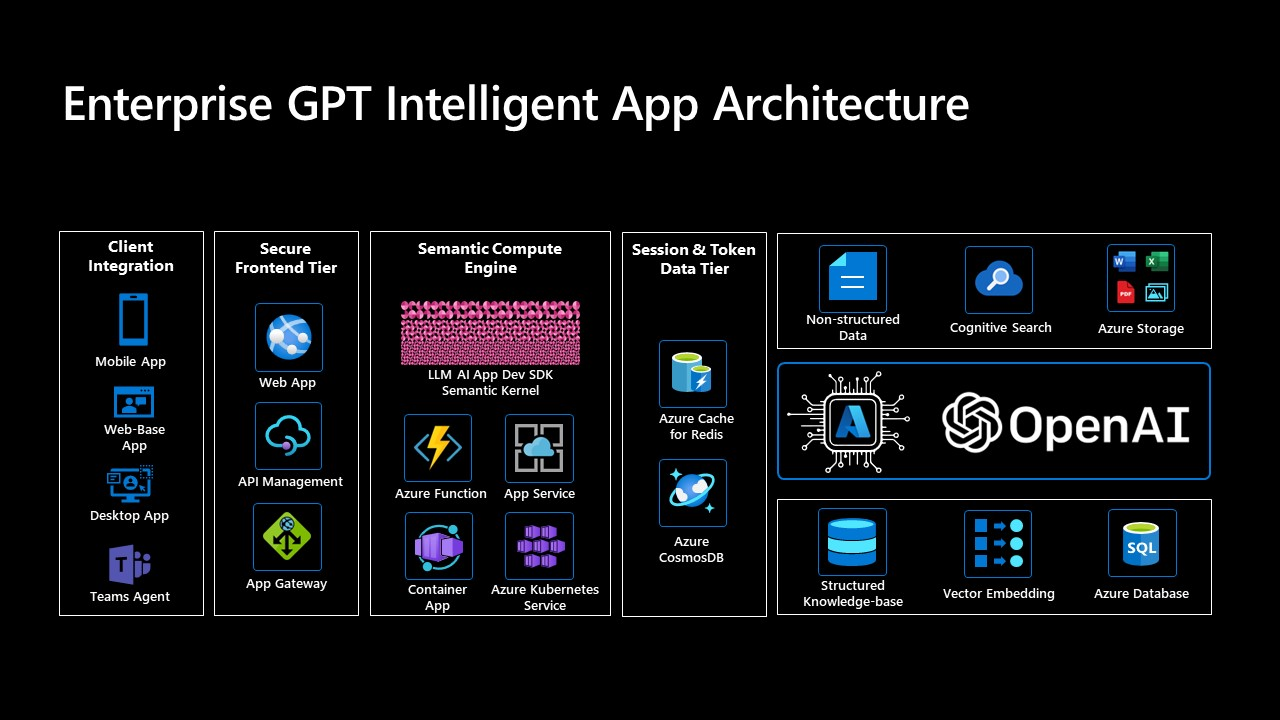
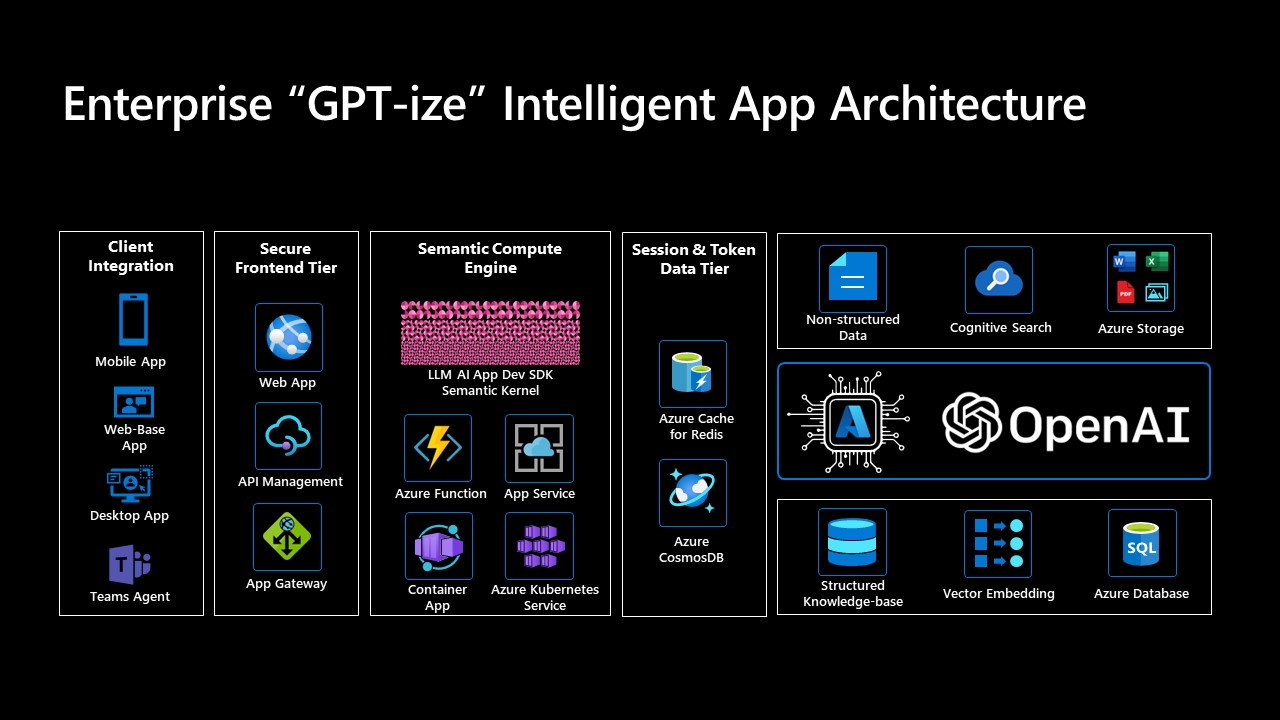
update

Changed region(s): [[0.2188, 0.1222, 0.8438, 0.1833]]

diff --git a/README.md b/README.md
@@ -1,6 +1,6 @@
 # Azure OpenAI App Innovation Workshop 
 
-## Enterprise GPT Intelligent Application Architecture - A prompt engineering approach
+## Enterprise GPT-ize Intelligent Application Architecture - A prompt engineering approach with LLM AI Dev Framework
 The importance of Prompt Engineering in the field of large-scale language model applications is gradually becoming apparent. Prompt Engineering is a technique based on human language intuition that can help enterprises quickly achieve specific functions when building large language models. Based on the formal representation of natural language questions, Prompt Engineering can effectively guide the learning process of large language models, thereby improving their performance. Some papers have shown that in certain complex reasoning and thought-chain contexts, prompts even perform better than fine-tuning.
 
 Based on these research findings, we have proposed a framework for enterprise-level GPT intelligent application engineering, which is based on Prompt Engineering. The framework, as shown in the diagram below, allows enterprises to quickly build their own large-scale intelligent applications without modifying the model itself, and immediately enjoy the productivity dividend brought by the new generation of artificial intelligence.
